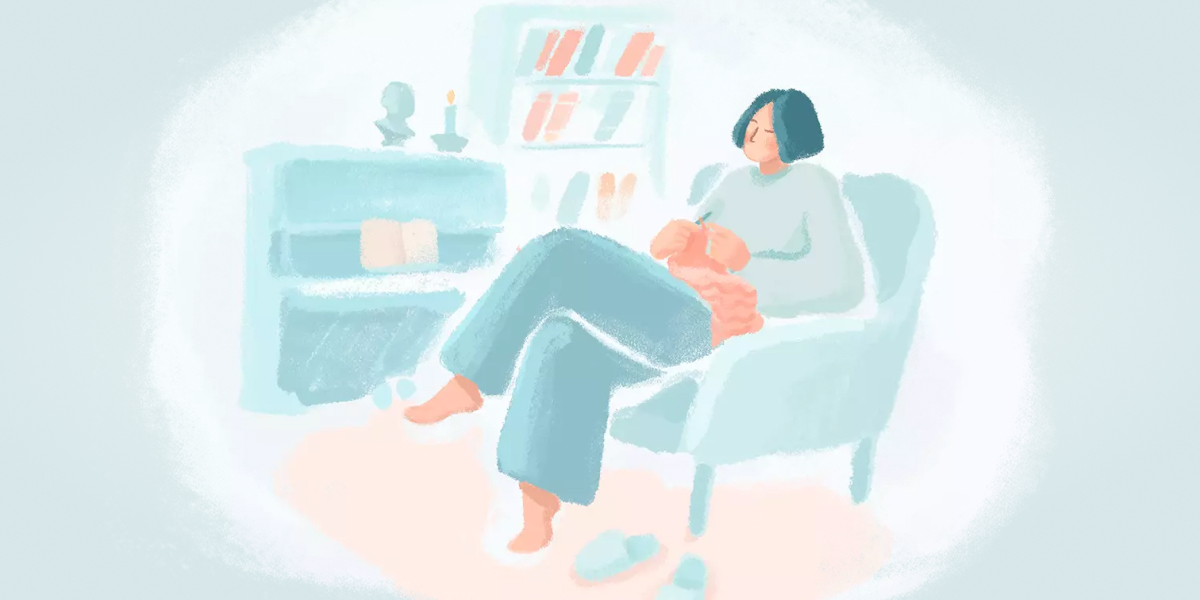
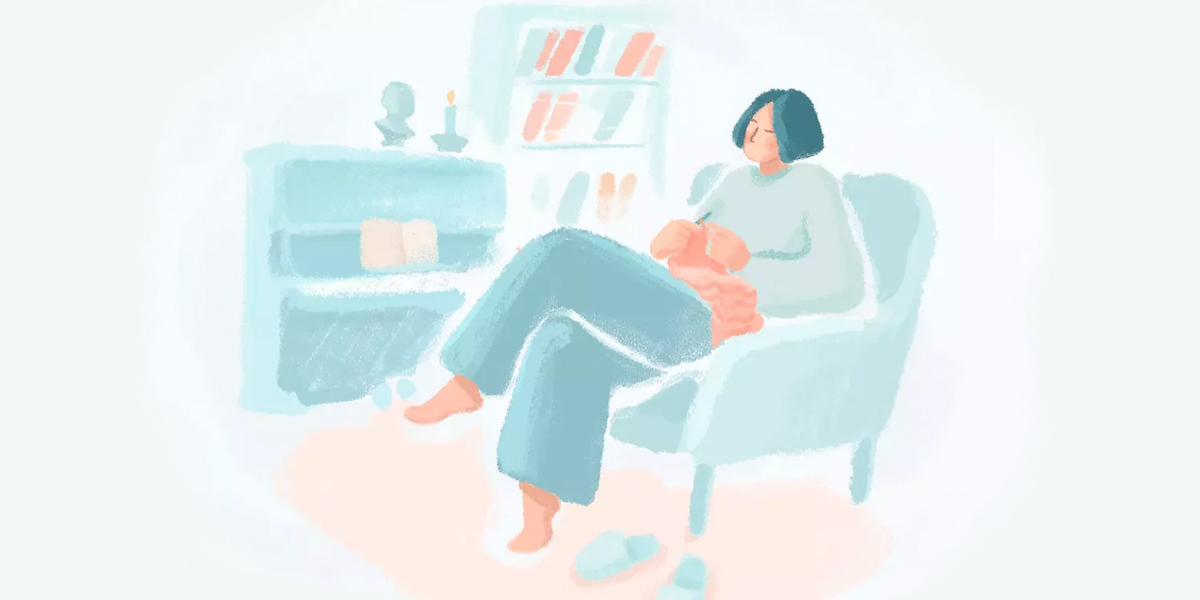
delete content dir, replace og image

diff --git a/gatsby-config.js b/gatsby-config.js
@@ -92,7 +92,7 @@ module.exports = {
         background_color: `#ffffff`,
         theme_color: `#D1E3E6`, //color of the browser header
         display: `minimal-ui`,
-        icon: `content/assets/favicon.png`,
+        icon: `static/favicon.png`,
       },
     },
   ],
